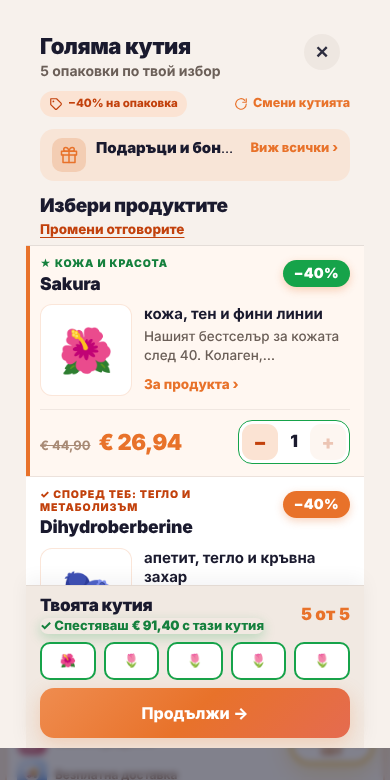
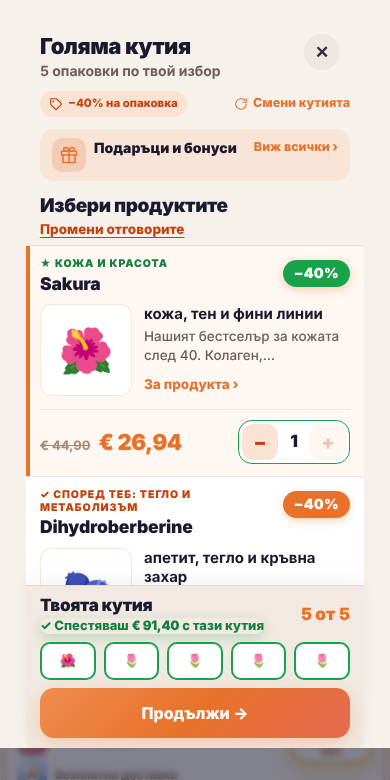
ansa™ Промо 1.0.40: редът „Подаръци и бонуси · Виж всички ›“ се събира на 360–430px без отрязване
Claude-Session: https://claude.ai/code/session_016xwttRat16gtsmeJgFs2kL

Changed region(s): [[0.2462, 0.1846, 0.6154, 0.2154], [0.6462, 0.1846, 0.8615, 0.2154]]

diff --git a/assets/promo-extra.css b/assets/promo-extra.css
@@ -1111,13 +1111,13 @@ body.ansa-promo-page #fkcart-floating-toggler,body.ansa-promo-page .fkcart-float
 .ansa-promo .dc.fpm .mfhr{margin-top:8px;gap:6px}
 /* подаръците: един компактен ред икона | „Подаръци и бонуси · 5 билета…“ | „Виж всички ›“ */
 .ansa-promo .dc.fpm .mfg2{margin:10px 0 0;padding:0;border-radius:14px;background:#f8e5d7}
-.ansa-promo .dc.fpm .mfgc{grid-template-columns:34px minmax(0,1fr) auto;column-gap:10px;padding:9px 12px;align-items:center}
+.ansa-promo .dc.fpm .mfgc{grid-template-columns:34px minmax(0,1fr) auto;column-gap:8px;padding:9px 12px;align-items:center}
 .ansa-promo .dc.fpm .mfgic{width:34px;height:34px;border-radius:10px}
 .ansa-promo .dc.fpm .mfgic svg{width:18px;height:18px}
 .ansa-promo .dc.fpm .mfgt{display:block;min-width:0;white-space:nowrap;overflow:hidden;text-overflow:ellipsis;line-height:1.25}
-.ansa-promo .dc.fpm .mfgt>b{display:inline;font-size:15px;white-space:nowrap}
+.ansa-promo .dc.fpm .mfgt>b{display:inline;font-size:14px;white-space:nowrap}
 .ansa-promo .dc.fpm .mfgt small{display:none} /* резюмето не се събира на 390px — „Виж всички ›“ разгъва списъка */
-.ansa-promo .dc.fpm .mfga{font-size:13px;white-space:nowrap}
+.ansa-promo .dc.fpm .mfga{font-size:12.5px;white-space:nowrap}
 .ansa-promo .dc.fpm .mfgh{padding:0 12px 10px}
 /* „Избери продуктите“ + връзката към въпросника на един ред */
 .ansa-promo .dc.fpm .mfpk{margin:14px 14px 8px;font-size:19px;display:flex;align-items:baseline;justify-content:space-between;gap:10px}
